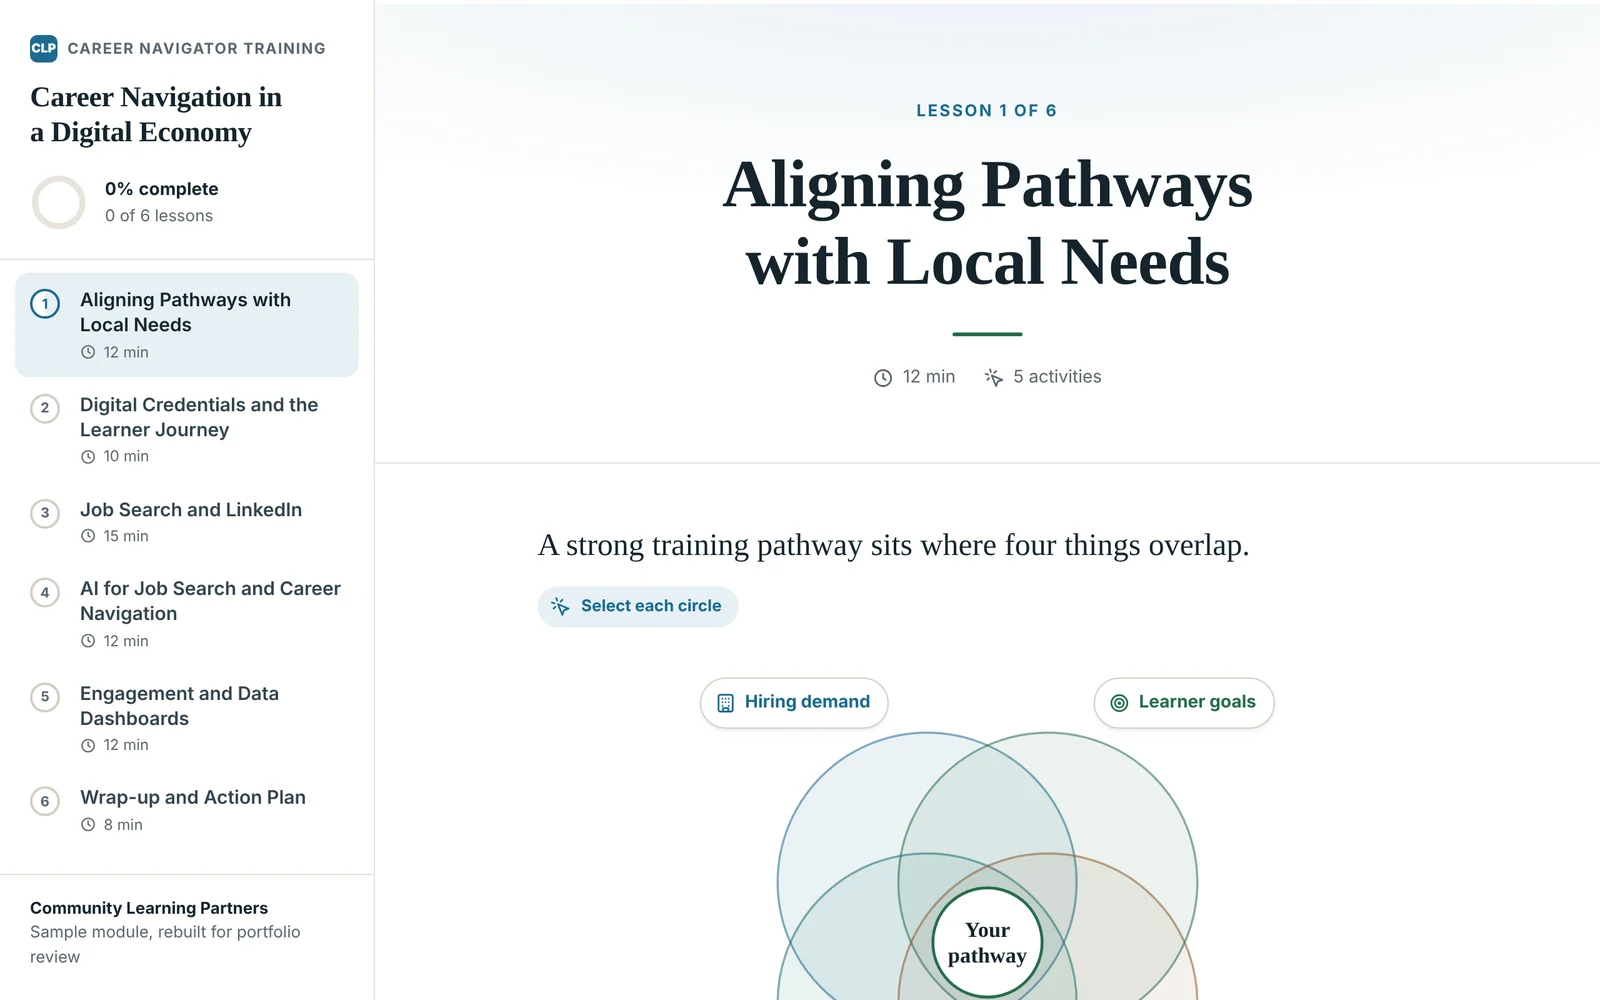
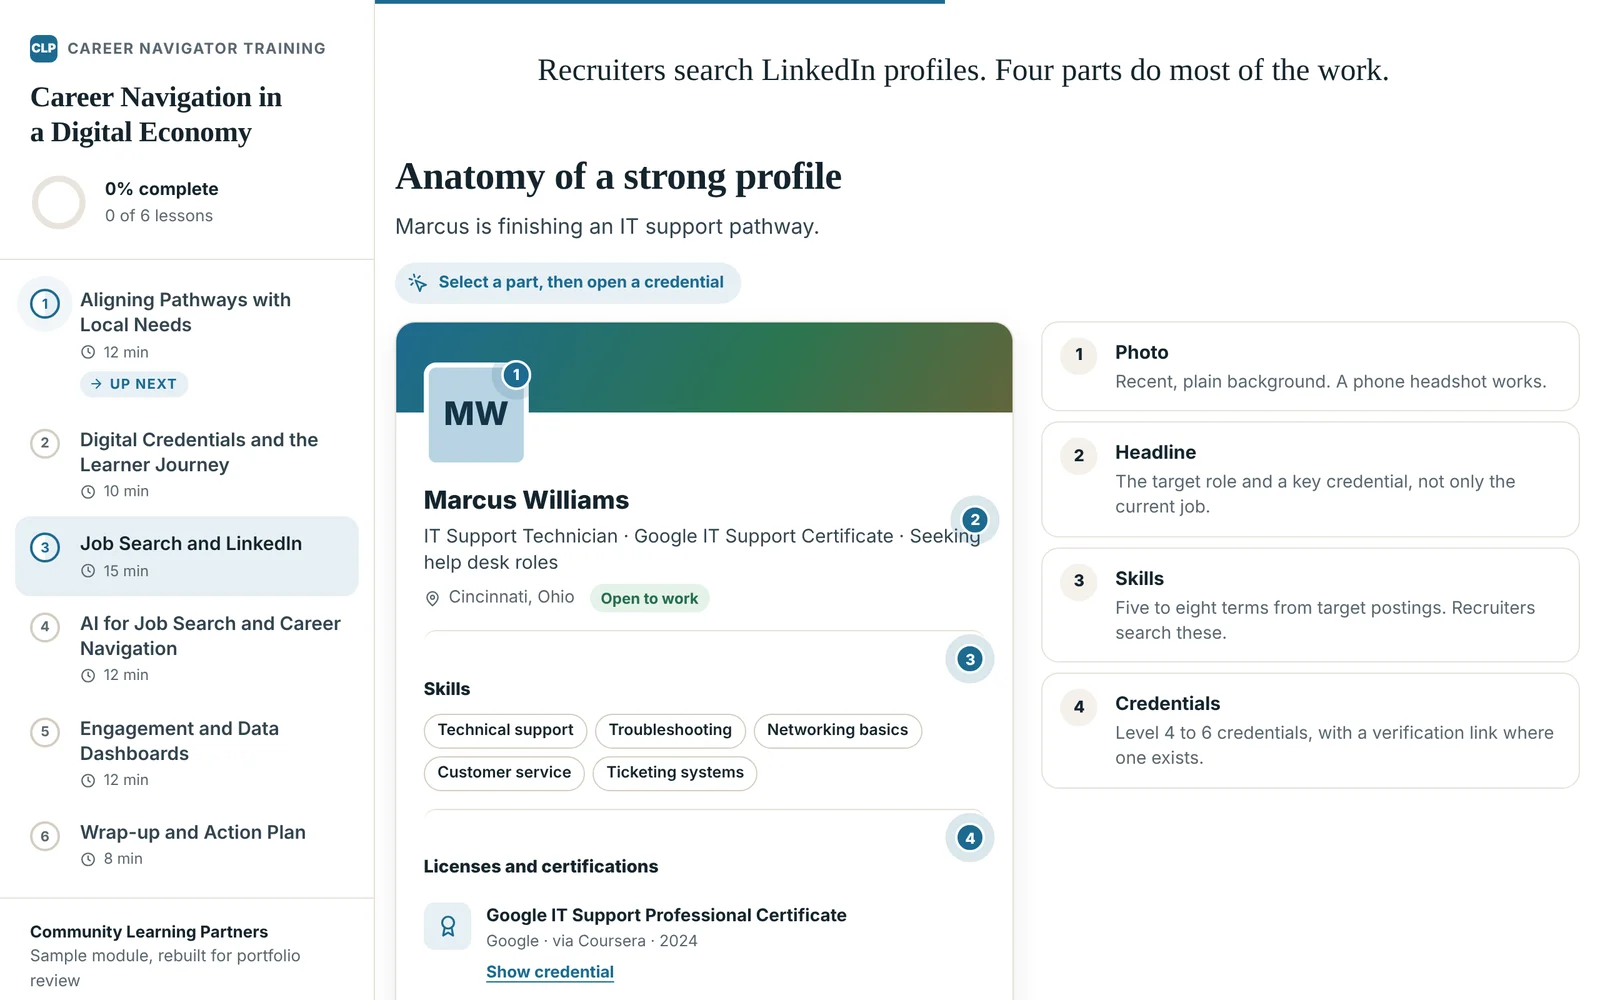
Portfolio: LinkedIn lesson screenshot, text left and picture right in every section
Claude-Session: https://claude.ai/code/session_01XTvQDdwUPb7irM9cop96mX

diff --git a/src/pages/ElearningPortfolio.tsx b/src/pages/ElearningPortfolio.tsx
@@ -57,8 +57,8 @@ const projects: Project[] = [
     href: '/elearning-samples/career-navigation/',
     cta: 'Open the course module',
     tone: 'blue',
-    shots: [{ src: '/media/elearning-samples/career-navigation.webp', alt: 'Lesson 1 of the Career Navigation module, with the lesson list on the left and an interactive diagram on the right' }],
-    thumb: '/media/elearning-samples/career-navigation.webp',
+    shots: [{ src: '/media/elearning-samples/career-navigation.webp', alt: 'Lesson 3 of the Career Navigation module: an interactive LinkedIn profile with numbered parts and notes on each' }],
+    thumb: '/media/elearning-samples/career-navigation-thumb.webp',
   },
   {
     id: 'peer-learning',
@@ -119,7 +119,7 @@ const external = (href: string) => href.startsWith('http');
 
 /** A screenshot in a plain browser window. */
 const BrowserShot = ({ src, alt }: { src: string; alt: string }) => (
-  <div className="overflow-hidden rounded-xl border border-foreground/10 bg-white shadow-[0_24px_48px_-24px_hsl(215_30%_20%/0.35)]">
+  <div className="overflow-hidden rounded-t-xl border border-b-0 border-foreground/10 bg-white shadow-[0_-8px_40px_-16px_hsl(215_30%_20%/0.35)]">
     <div className="flex items-center gap-1.5 border-b border-border bg-surface px-3.5 py-2.5" aria-hidden="true">
       <span className="h-2.5 w-2.5 rounded-full bg-foreground/15" />
       <span className="h-2.5 w-2.5 rounded-full bg-foreground/15" />
@@ -131,38 +131,21 @@ const BrowserShot = ({ src, alt }: { src: string; alt: string }) => (
 
 /** A screenshot in a phone outline. */
 const PhoneShot = ({ src, alt, className = '' }: { src: string; alt: string; className?: string }) => (
-  <div className={`w-[46%] max-w-[230px] rounded-[30px] border-[7px] border-foreground bg-foreground shadow-[0_24px_48px_-20px_hsl(215_30%_20%/0.45)] ${className}`}>
+  <div className={`w-[46%] max-w-[230px] rounded-[30px] border-[7px] border-foreground bg-foreground shadow-[0_-8px_40px_-16px_hsl(215_30%_20%/0.45)] ${className}`}>
     <img src={src} alt={alt} width={384} height={844} loading="lazy" className="block aspect-[384/844] w-full rounded-[23px] object-cover" />
   </div>
 );
 
 const ProjectSection = ({ p, n }: { p: Project; n: number }) => {
   const t = TONES[p.tone];
-  const flip = n % 2 === 0;
   const linkProps = { href: p.href, target: '_blank', rel: 'noopener noreferrer' };
 
   return (
     <section id={p.id} aria-labelledby={`${p.id}-title`} className="scroll-mt-24 border-t border-border py-16 md:py-24">
       <div className="container mx-auto px-6">
         <div className="grid items-center gap-10 lg:grid-cols-12 lg:gap-14">
-          {/* Picture */}
-          <a
-            {...linkProps}
-            aria-label={`${p.cta}: ${p.title} (opens in a new tab)`}
-            className={`group block rounded-2xl ${t.tint} p-5 transition-transform duration-200 hover:-translate-y-1 focus-visible:outline focus-visible:outline-[3px] focus-visible:outline-offset-4 focus-visible:outline-primary sm:p-8 lg:col-span-7 ${flip ? 'lg:order-2' : ''}`}
-          >
-            {p.phone ? (
-              <div className="flex items-end justify-center gap-5 sm:gap-8 py-2">
-                <PhoneShot src={p.shots[0].src} alt={p.shots[0].alt} className="translate-y-6" />
-                <PhoneShot src={p.shots[1].src} alt={p.shots[1].alt} />
-              </div>
-            ) : (
-              <BrowserShot src={p.shots[0].src} alt={p.shots[0].alt} />
-            )}
-          </a>
-
-          {/* Words */}
-          <div className={`lg:col-span-5 ${flip ? 'lg:order-1' : ''}`}>
+          {/* Words, always on the left */}
+          <div className="lg:col-span-5">
             <p className={`flex items-center gap-2.5 text-sm font-semibold uppercase tracking-[0.12em] ${t.ink}`}>
               <span className="tabular-nums">{String(n).padStart(2, '0')}</span>
               <span className="h-px w-6 bg-current opacity-40" aria-hidden="true" />
@@ -191,6 +174,24 @@ const ProjectSection = ({ p, n }: { p: Project; n: number }) => {
               <span className="sr-only">(opens in a new tab)</span>
             </a>
           </div>
+
+          {/* Picture, always on the right: the screen rises out of a tinted panel and runs off its bottom edge */}
+          <a
+            {...linkProps}
+            aria-label={`${p.cta}: ${p.title} (opens in a new tab)`}
+            className={`group relative block aspect-[3/2] overflow-hidden rounded-2xl ${t.tint} px-6 pt-8 focus-visible:outline focus-visible:outline-[3px] focus-visible:outline-offset-4 focus-visible:outline-primary sm:px-10 sm:pt-10 lg:col-span-7`}
+          >
+            <div className="transition-transform duration-300 ease-out group-hover:-translate-y-1.5">
+              {p.phone ? (
+                <div className="flex justify-center gap-5 sm:gap-8">
+                  <PhoneShot src={p.shots[0].src} alt={p.shots[0].alt} className="mt-8" />
+                  <PhoneShot src={p.shots[1].src} alt={p.shots[1].alt} />
+                </div>
+              ) : (
+                <BrowserShot src={p.shots[0].src} alt={p.shots[0].alt} />
+              )}
+            </div>
+          </a>
         </div>
 
         {/* Design features */}
